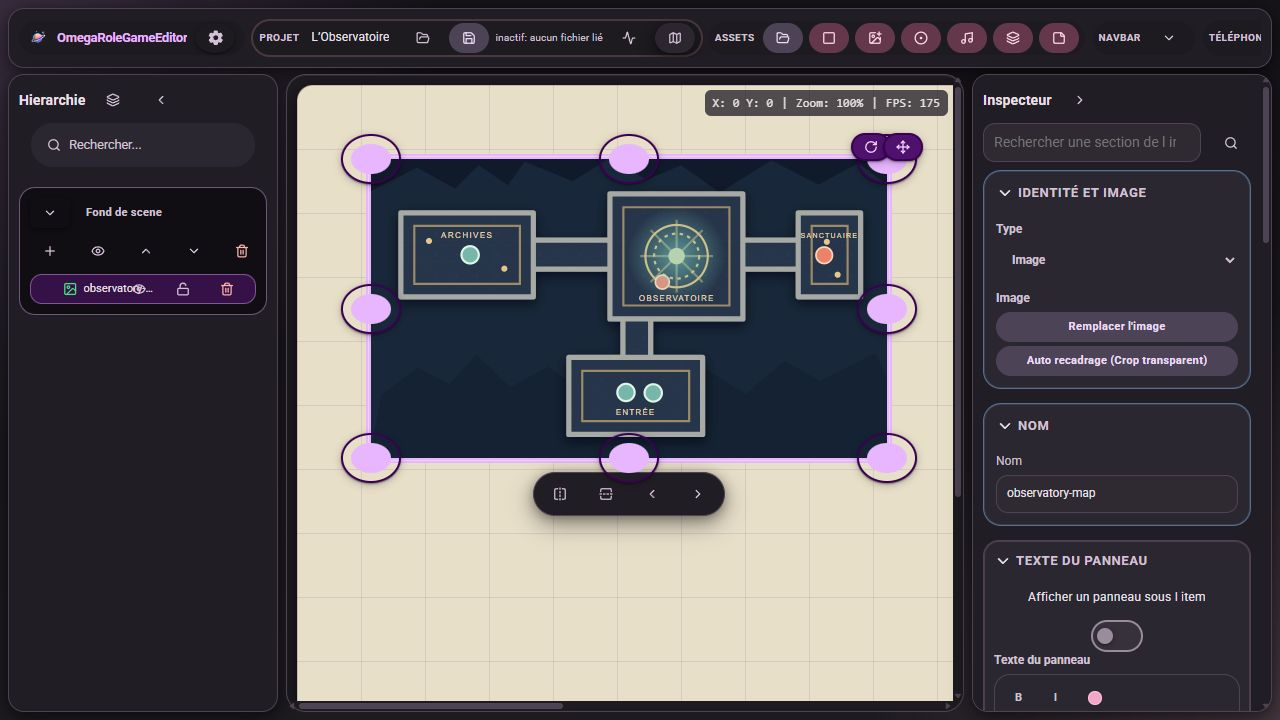
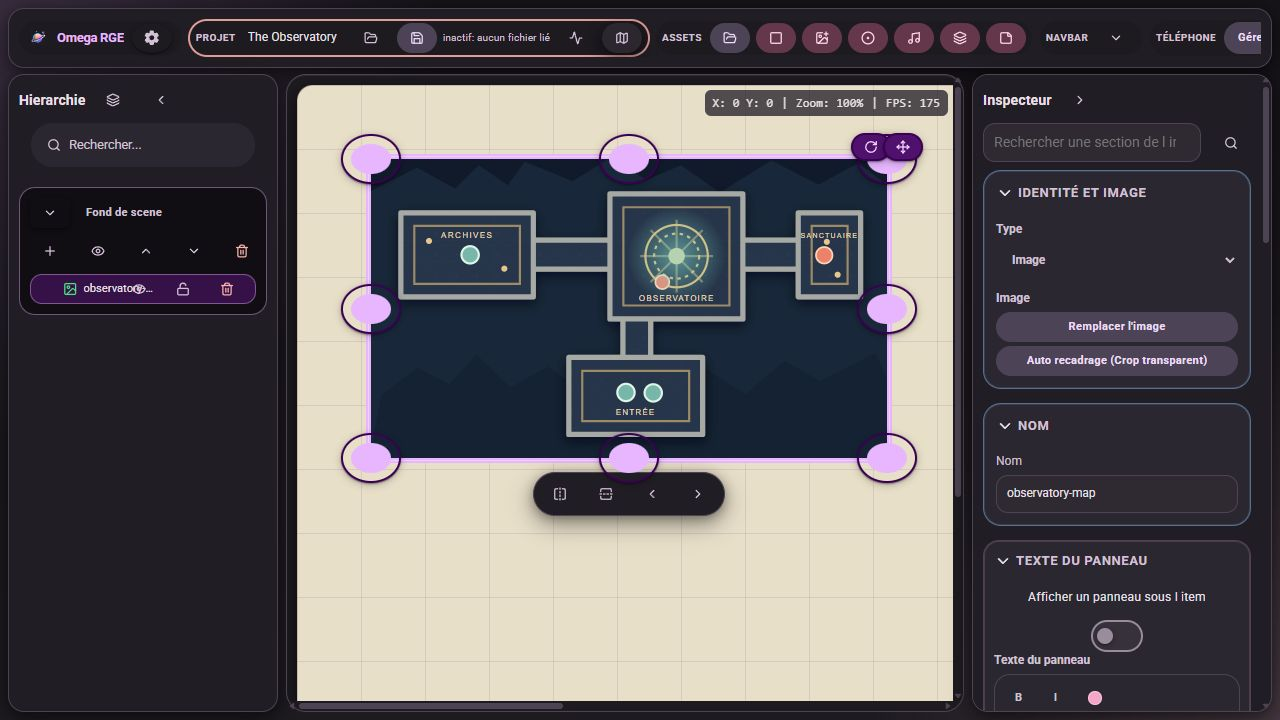
Use compact app name and English README

Changed region(s): [[0.0625, 0.0306, 1.0, 0.0917]]

diff --git a/src/components/editor/toolbar/ToolbarBrand.tsx b/src/components/editor/toolbar/ToolbarBrand.tsx
@@ -8,9 +8,9 @@ export type ToolbarBrandProps = {
 
 export function ToolbarBrand({ onOpenSettings }: ToolbarBrandProps) {
   return (
-    <div className="toolbar-group toolbar-brand" aria-label="OmegaRoleGameEditor">
-      <img src={logo} alt="Logo OmegaRoleGameEditor" className="toolbar-logo" />
-      <div className="app-title toolbar-title">OmegaRoleGameEditor</div>
+    <div className="toolbar-group toolbar-brand" aria-label="Omega RGE">
+      <img src={logo} alt="Logo Omega RGE" className="toolbar-logo" />
+      <div className="app-title toolbar-title">Omega RGE</div>
       <IconButton
         size="small"
         title="Ouvrir les réglages"

diff --git a/src/components/dialogs/BrowserSupportDialog.tsx b/src/components/dialogs/BrowserSupportDialog.tsx
@@ -131,7 +131,7 @@ export const BrowserSupportDialog: React.FC<BrowserSupportDialogProps> = ({
             }}
           >
             <Typography variant="body2" sx={{ fontWeight: 600, mb: 0.5 }}>
-              OmegaRoleGameEditor is currently optimized exclusively for Google Chrome.
+              Omega RGE is currently optimized exclusively for Google Chrome.
             </Typography>
             <Typography variant="body2" color="text.secondary">
               This application does not officially support other browsers at this moment. You may encounter unexpected display bugs, missing audio features, or broken canvas interactions.

diff --git a/src/App.tsx b/src/App.tsx
@@ -1968,7 +1968,7 @@ function App() {
   useEffect(() => {
     document.documentElement.dataset.theme = resolvedThemeMode
     document.documentElement.style.colorScheme = resolvedThemeMode
-    document.title = 'OmegaRoleGameEditor'
+    document.title = 'Omega RGE'
   }, [resolvedThemeMode])
 
   useEffect(() => {
@@ -4711,7 +4711,7 @@ function App() {
           suggestedName: fileName,
           types: [
             {
-              description: 'Terrain OmegaRoleGameEditor',
+              description: 'Terrain Omega RGE',
               accept: {
                 'application/json': ['.terrain.json', '.json'],
               },

diff --git a/vite.config.ts b/vite.config.ts
@@ -58,8 +58,8 @@ export default defineConfig({
       registerType: 'autoUpdate',
       includeAssets: ['logo.png'],
       manifest: {
-        name: 'OmegaRoleGameEditor',
-        short_name: 'OmegaRoleGameEditor',
+        name: 'Omega RGE',
+        short_name: 'Omega RGE',
         description: 'Éditeur de jeu de rôle et table virtuelle',
         theme_color: '#1a1a1a',
         background_color: '#1a1a1a',

diff --git a/index.html b/index.html
@@ -5,7 +5,7 @@
     <link rel="icon" type="image/png" href="/logo.png" />
     <meta name="viewport" content="width=device-width, initial-scale=1.0" />
     <meta name="theme-color" content="#1a1a1a" />
-    <title>OmegaRoleGameEditor</title>
+    <title>Omega RGE</title>
   </head>
   <body>
     <div id="root"></div>

diff --git a/README.md b/README.md
@@ -1,63 +1,63 @@
 <div align="center">
-  <img src="public/logo.png" alt="Logo OmegaRoleGameEditor" width="92" />
+  <img src="public/logo.png" alt="OmegaRoleGameEditor logo" width="92" />
 
   # OmegaRoleGameEditor
 
-  **Créez vos scènes de jeu de rôle, dirigez la partie et partagez une vue dédiée aux joueurs.**
+  **Build tabletop scenes, run your game, and share a dedicated view with players.**
 
-  Éditeur de terrain · Table virtuelle · Session en temps réel
+  Map editor · Virtual tabletop · Real-time sessions
 </div>
 
 ---
 
-## Aperçu
+## Preview
 
-| Éditeur MJ | Vue joueur |
+| Game Master editor | Player view |
 | :---: | :---: |
-| <img src="docs/screenshots/editor.png" alt="Éditeur MJ : hiérarchie, carte et inspecteur" width="600" /> | <img src="docs/screenshots/player.png" alt="Vue joueur épurée sur la même scène" width="600" /> |
+| <img src="docs/screenshots/editor.png" alt="Game Master editor with scene hierarchy, map, and inspector" width="600" /> | <img src="docs/screenshots/player.png" alt="Clean player view of the same scene" width="600" /> |
 
-Les captures utilisent [une carte de démonstration](docs/demo/observatory-map.svg) créée pour ce dépôt.
+The screenshots use an original [demo map](docs/demo/observatory-map.svg) made for this repository.
 
-## Ce que vous pouvez faire
+## Features
 
-| Composer | Diriger | Partager |
+| Build | Run | Share |
 | --- | --- | --- |
-| Importer images et pions, organiser les calques et la hiérarchie, déplacer et transformer les éléments. | Préparer notes, effets, sons, dés et autres outils de partie dans l’espace MJ. | Ouvrir une salle avec le serveur Express/WebSocket et diffuser la scène visible aux joueurs. |
+| Import images and tokens, arrange layers and nested objects, then move and transform scene elements. | Prepare notes, effects, audio, dice, and other Game Master tools. | Host a room with Express and WebSocket, then stream the visible scene to players. |
 
-L’éditeur et la vue joueur sont séparés. Les éléments masqués et les informations propres à l’édition ne sont pas envoyés aux joueurs.
+The Game Master editor and player view are separate. Hidden elements and editing-only information are not sent to players.
 
-## Démarrer
+## Quick start
 
-**Prérequis :** Node.js et npm. Google Chrome est recommandé pour les fonctions de fichiers et certaines interactions avec la scène.
+**Requirements:** Node.js and npm. Google Chrome is recommended for file handling and some scene interactions.
 
 ```bash
 npm ci
 npm run dev:full
 ```
 
-Ouvrez **http://localhost:5173**. Le serveur de session écoute par défaut sur **http://localhost:8787**. Les ports peuvent être modifiés dans [`config.json`](config.json).
+Open **http://localhost:5173**. The session server listens on **http://localhost:8787** by default. You can change both ports in [`config.json`](config.json).
 
-1. Passez en mode **MJ** et créez votre terrain.
-2. Ajoutez des images, des pions et des calques, puis ajustez leurs propriétés dans l’inspecteur.
-3. Utilisez **Sauvegarder sous…** pour exporter la scène.
-4. Ouvrez le mode **Host** et communiquez le code de salle aux joueurs.
-5. Les joueurs passent en vue **Joueur** pour rejoindre la session.
+1. Switch to **MJ** (Game Master) mode and create a terrain.
+2. Add images, tokens, and layers; edit their properties in the inspector.
+3. Use **Sauvegarder sous…** (Save As) to export the scene.
+4. Open **Host** mode and share the room code with your players.
+5. Players switch to **Joueur** (Player) mode to join the session.
 
-## Sauvegardes portables
+## Portable saves
 
-Un terrain s’exporte dans **un seul fichier `.terrain.json`**. Les images sont embarquées sous forme de Data URL : la scène reste transportable sans dossier d’assets séparé. Les anciens fichiers JSON restent lisibles lors des évolutions du format.
+Each terrain exports as **one `.terrain.json` file**. Images are embedded as Data URLs, so the scene can travel without a separate asset directory. Older terrain JSON files remain loadable as the format evolves.
 
-## Stack et scripts
+## Stack and scripts
 
-**Client :** Vite, React, TypeScript, Material UI. **Session :** Express et WebSocket.
+**Client:** Vite, React, TypeScript, Material UI. **Session server:** Express and WebSocket.
 
-| Commande | Usage |
+| Command | Purpose |
 | --- | --- |
-| `npm run dev:full` | Lance le client et le serveur de session. |
-| `npm run dev` | Lance uniquement le client. |
-| `npm run dev:server` | Lance uniquement le serveur. |
-| `npm run build` | Vérifie TypeScript et crée le client de production. |
-| `npm test` | Lance les tests de logique métier. |
-| `npm run lint` | Analyse le code avec ESLint. |
+| `npm run dev:full` | Start the client and session server together. |
+| `npm run dev` | Start only the client. |
+| `npm run dev:server` | Start only the session server. |
+| `npm run build` | Check TypeScript and build the production client. |
+| `npm test` | Run business logic tests. |
+| `npm run lint` | Run ESLint. |
 
-Le code client se trouve dans [`src/`](src), le serveur dans [`server/`](server) et les ressources publiques dans [`public/`](public). Les campagnes personnelles ne sont pas incluses dans ce dépôt.
+The client lives in [`src/`](src), the server in [`server/`](server), and public assets in [`public/`](public). Personal campaigns are not included in this repository.
